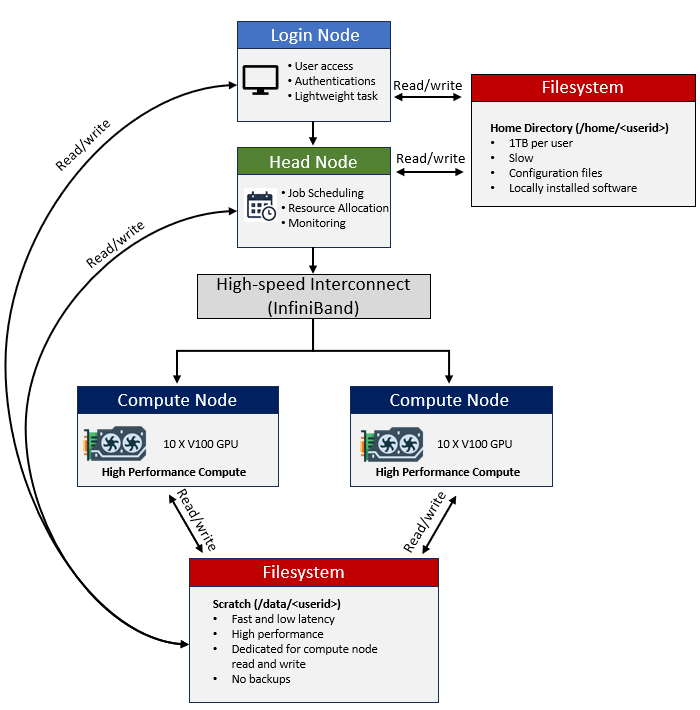
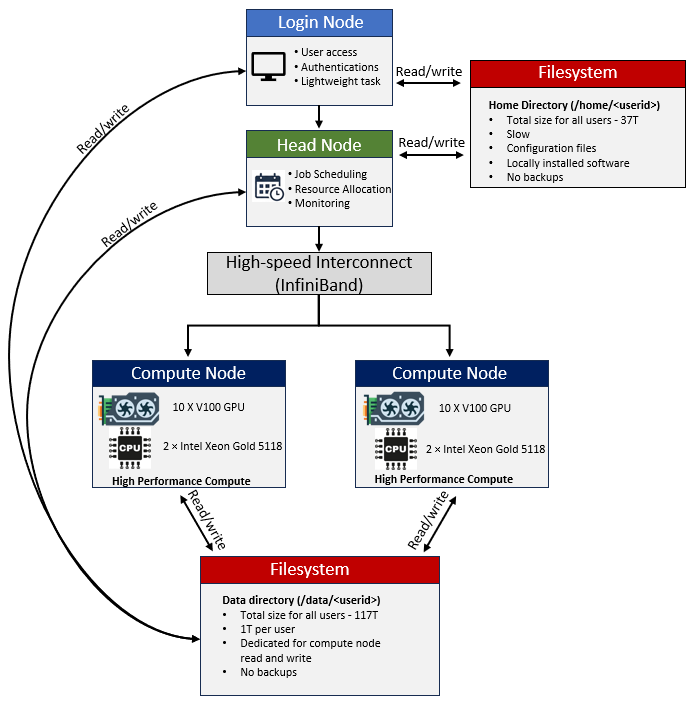
nc

diff --git a/docs/4_Modules_packages.md b/docs/4_Modules_packages.md
@@ -2,7 +2,7 @@
 
 ## Pre-installed software
 
-There are a few softwares that are pre-installed on the IBME cluster that are available to the users. The GPU software stack in the modules are:
+Several software/module packages are pre-installed on the IBME cluster and are available to users. The GPU module stack available on the IBME cluster is listed below:
 
 | **Name**                                         | **Version** | **Description** |
 |:---------------------------------------------------|:-------------| :-------------|
@@ -10,14 +10,14 @@ There are a few softwares that are pre-installed on the IBME cluster that are av
 |cuDNN |  `6.0.20`,    `7.0.1`,    `7.5.0`| CUDA Deep Neural Network Library |
 |NCCL | `1.3.5`,    `2.1.2`,    `2.3.7`,    `2.4.2`| NVIDIA Collective Communications Library. |
 
-The rest of the modules are for infrastructure/support that help the cluster environment work. One in the headnode1, the `module` tools can be used to view or interact with the modules. For exaample:
+The remaining software provide infrastructure and support services that help maintain the cluster environment. Once logged in to `headnode1`, the `module` command can be used to view and interact with the available modules. For exaample:
 
-- The `module avail` or `module spider` command shows the available module in the system
-- The `module load <module_name-version>` loads a module. (Note: replace the module_name and version to load a specific module)
-- The `module unload <module_name-version>` unloads a module.
-- The `module list` command shows the loaded module
+- The `module avail` or `module spider` command shows the available modules in the system.
+- The `module load <module_name-version>` command loads a module. (Note: replace `<module_name-version>` with the specific module and version you want to load.)
+- The `module unload <module_name-version>` command unloads a module.
+- The `module list` command shows the currently loaded modules.
 
-Once the module is loaded it is automatically added to the PATH variable, which can be checked with the `echo $PATH` commans.
+Once a module is loaded, it is automatically added to the PATH environment variable. This can be verified using the `echo $PATH` command.
 
 !!! terminal "code"
     ```bash
@@ -28,44 +28,44 @@ Once the module is loaded it is automatically added to the PATH variable, which 
 
 ## The Mamba or Conda package manager
 
-As the available packages are limited, there may be situations where additional software needs to be installed. The Mamba package manager is one way to install additional software. Mamba is a faster successor to Conda and can be used interchangeably with Conda in most commands. Mamba is an open-source alternative to Conda, implemented in C++ to provide improved performance and faster dependency resolution.
+As the number of pre-installed packages is limited, there may be situations where additional software needs to be installed. One way to install additional software is through the Mamba package manager. Mamba is a faster, open-source alternative to Conda, implemented in C++ to provide improved performance and faster dependency resolution. In most cases, Mamba can be used interchangeably with Conda using the same commands.
 
-With Mamba different version of the same software can be installed in the HPC (or other machines) which are organised in virtual environments. The software can be installed locally on HPC without needing the permission of the IBME HPC admin. 
+Mamba allows different versions of the same software to be installed on the HPC system (or other machines) within isolated virtual environments. Software can be installed locally on the HPC without requiring permission from the IBME HPC administrators.. 
 
 ## Installing Mamba on the IBME cluster
 
-Before using Mamba on the IBME cluster it must be installed (Mamba is already preinstalled on the BMRC cluster). Follow the steps below to install Mamba on the IBME cluster. 
+Before using Mamba on the IBME cluster, it must be installed (Mamba is already preinstalled on the BMRC cluster). Follow the steps below to install Mamba on the IBME cluster:
 
 - Login to the IBME cluster - `ssh <userid>@engs-ibmecluster01.eng.ox.ac.uk`
 
 - In the login node make a shell variable `dir="/users/<userid>/miniforge3"`
 
 
-- Download the installer using `wget`. Information about the installer is available on the official GitHub [**page**](https://github.com/conda-forge/miniforge/)
+- Download the installer using `wget`. Information about the installer is available on the official GitHub [**page**](https://github.com/conda-forge/miniforge/) repository.
 
- !!! terminal "code"
+!!! terminal "code"
     ```bash
     $ wget "https://github.com/conda-forge/miniforge/releases/latest/download/Miniforge3-$(uname)-$(uname -m).sh"
     ```
-    Once the installer has been downloaded, it will be available in the current directory as `Miniforge3-Linux-x86_64.sh`
+    Once the installer has been downloaded, it will be saved in the current directory as `Miniforge3-Linux-x86_64.sh`
 
-- Run the installer and save the installed packages in the `miniforge3` directory
+- Run the installer to install the packages into the `miniforge3` directory.
 
- !!! terminal "code"
+!!! terminal "code"
     ```bash
     $ bash Miniforge3-$(uname)-$(uname -m).sh -b -p $dir
     ```
 
-- Modify the shell configuration for Mamba
+- Configure the shell environment for Mamba
 
 !!! terminal "code"
     ```bash
     $ dir/bin/mamba shell init --shell bash
     ```
 
-- Restart the terminal by logining out and in of the IBME cluster. 
+- Log out of the IBME cluster and log back in to restart the terminal session.
 
-- Run the following commands to installs software repository (which are called channels) for Mamba
+- Run the following commands to add software repositories (known as channels) to Mamba.
 
 !!! terminal "code"
     ```bash
@@ -74,7 +74,7 @@ Before using Mamba on the IBME cluster it must be installed (Mamba is already pr
     $ conda config --add channels conda-forge
     $ conda config --set channel_priority strict
     ```
-- Check the repositories are installed 
+- Verify that the repositories have been installed.
 
 !!! terminal "code"
     ```bash
@@ -92,7 +92,7 @@ Before using Mamba on the IBME cluster it must be installed (Mamba is already pr
 
 ## Installing software on the IBME cluster
 
-To install software on the IBME cluster using Mamba a software environment (e.g. ImageAnalysis) must be created and activated. This can be created using command:
+To install software on the IBME cluster using Mamba, first create and activate a software environment (for example, ImageAnalysis) using the following command:
 
 !!! terminal "code"
     Create environment
@@ -105,16 +105,18 @@ To install software on the IBME cluster using Mamba a software environment (e.g.
     ```bash
     $ mamba activate ImageAnalysis
     ```
-Once activated the environment name will appear in bracket - (ImageAnalysis). Look for the software to install from the repository, for example the [conda-forge](https://conda-forge.org/packages/?) repository. In the example below `CUDA` software will be installed from conda-forge [repository](https://anaconda.org/channels/conda-forge/packages/cuda/overview) in the software environment:
+
+
+Once activated, the environment name will appear in parentheses (e.g. (ImageAnalysis)). Next, identify the software to install from a repository, such as the [conda-forge](https://conda-forge.org/packages/?) channel. In the example below, CUDA is installed from the conda-forge [repository](https://anaconda.org/channels/conda-forge/packages/cuda/overview) into the active software environment.
 
 !!! terminal "code"
     ```bash
     $ mamba install conda-forge::cuda
     ```
 
-We will not specify a specific version for the installation, as a result, Mamba will install the latest available package this is compatible on the IBME cluster system, which in this case was *CUDA 12.6.3*. This is not the latest version of CUDA but is a lot newer that the latest installed in the IBME cluster. 
+We will not specify a fixed version during installation. As a result, Mamba will install the latest available package that is compatible with the IBME cluster environment. In this case, that was `CUDA 12.6.3`. While this is not the most recent CUDA release available, it is significantly newer than the default CUDA version installed on the IBME cluster.
 
-The command above also installs many other CUDA related software packages, which are not available in latest version available in the IBME cluster. For example the `nvcc` and `gcc` compiler. 
+The command above also installs a number of additional CUDA-related packages that are not available in the latest versions provided on the IBME cluster. These include key development tools such as the `nvcc`  and the `gcc` compiler.
 
 The mamba environment can be deactivated using command:
 
@@ -125,7 +127,7 @@ The mamba environment can be deactivated using command:
 
 
 !!! info
-    Installing software using Mamba also installes a large number of dependencies. Creating many software environments and installing softwares withing them can quickly fill up the the user's home directory. Therefore it is advisable to archive the software environment when its not needed. The software environments are located in `/users/<userid>/miniforge3/envs`.
+    Installing software with Mamba also installs a large number of dependencies. Creating multiple environments and installing software within them can quickly consume space in the user’s home directory. It is therefore recommended to archive or remove environments that are no longer in use. Mamba environments are typically located in /users/<userid>/miniforge3/envs.
 
 
 

diff --git a/docs/1_Cluster_introduction.md b/docs/1_Cluster_introduction.md
@@ -1,7 +1,64 @@
 # 1. IBME Cluster introduction
 
+## Accessing the cluster
+
+The IBME cluster is dedicated to IBME users only. Access to the cluster can be requested by raising a ticket with the IBME Hub at **ibmehub@eng.ox.ac.uk**. Approval usually takes up to 10 working days. Once approved, the user is provided with a username and a temporary password, which must be changed on first login.
+
+
+## Cluster layout
+
+The IBME cluster consists of several components connected together in a network and works as a unified system.
 
 
 <p align="center">
     <img src="../images/IBME Cluster.png" width="720">
 </p>
+
+## Key Components
+
+The core components of the cluster include:
+
+ - **Lonin None:** The login node is a computer where users land when they first log in to the IBME cluster. The login node for the IBME cluster runs Rocky Linux (based on Red Hat Enterprise Linux). Logging in to the IBME cluster can be accomplished using the command `ssh <userid>@engs-ibmecluster01.eng.ox.ac.uk` from an IBME office computer on the wired office network, or after remotely connecting to your IBME office computer. To connect to the cluster remotely via VPN, the command `ssh -L 7719:localhost:22 -J <userid>@ibme-ssh-gateway.eng.ox.ac.uk <userid>@engs-ibmecluster01.eng.ox.ac.uk` can be used.
+
+    After a successful login, the terminal prompt changes to `[<userid>@lnode01 ~]$`, and the user is placed in their home directory at `/users/<userid>`. The login nodes can be used for tasks such as viewing and editing files, building software environments, navigating the file system, and transferring or downloading files. However, login nodes should not be used for compute-intensive tasks. The user’s home directory is typically limited in storage capacity; therefore, data intended for computation should instead be stored in `/data/<userid>`.
+
+
+!!! info
+    The `<userid>` must be replaced with the user name.
+
+    For the **first-time login**, the user will be prompted for two passwords. The first password is the user’s Engineering Department (Eng domain) password used at the IBME. The second password is the temporary cluster password provided in the approval email from the IBME Hub. During the initial login, the cluster authentication system will require the temporary password to be changed. After the password has been updated, the terminal session may disconnect automatically. If this happens, simply reconnect using the SSH command shown above and log in again. This time, use the newly updated cluster password as the second password.
+
+    For all subsequent logins, the user will be required to enter only their second password (the one updated by the user) for authentication.
+
+
+
+- **Head None:** To submit jobs to the compute nodes, the user must first log in to the head node. The command to log in to the head node is `ssh headnode01`. Once logged in, the terminal prompt changes to `[<userid>@headnode1 ~]`.
+
+    The head node in the IBME cluster runs CentOS Linux (based on Red Hat Enterprise Linux) and hosts the SLURM scheduler, which users can use to submit jobs to the compute nodes. Instructions on how to use SLURM in the IBME cluster are provided in the [Batch and interactive sessions section](http://127.0.0.1:8000/IBME_Cluster/5_Sessions/).
+
+    Pre-installed software on the IBME cluster is available from the head node. See the [Module and packages](http://127.0.0.1:8000/IBME_Cluster/4_Modules_packages/) section for instructions on how to access or install software.
+
+    The file system on the login node is the same as that of the head node. As a result, files and data stored in `/users/<userid>` and `/data/<userid>` on the login node are also accessible from headnode1.
+
+
+!!! info
+    During the **first-time login**, the user will be prompted to enter the temporary password provided in the approval email from IBME Hub. The authentication system will then require the temporary password to be changed. Choose a secure password to complete the setup. For all subsequent logins, only the new password set by the user will be required for authentication.
+
+
+- **Compute Node:** Compute nodes are the machines responsible for executing jobs on the cluster. Users do not have direct access to the compute nodes (for example, commands such as `ssh computenode` are not permitted). Jobs can only be submitted from the head node (headnode1) using SLURM, as described above.
+
+    The IBME cluster consists of two identical compute nodes. Each node is equipped with **10 x [Tesla V100](https://www.nvidia.com/en-gb/data-center/tesla-v100/) 32GB GPU** and **2 x Intel Xeon Gold 5118 (12 core) 2.30GHz CPU**. Each CPU supports two threads per core, resulting in **24 physical CPU cores and 48 logical CPUs per node**. In addition, each node has **190 GB** of system RAM (separate from GPU memory).
+
+    The table below summarises the compute infrastructure available on each node
+
+
+<div style="display: flex; justify-content: center;" markdown="1">
+
+
+| **Type**                                         | **Configuration** | 
+|:---------------------------------------------------|:-------------|
+|GPU| 20 x Tesla V100 32GB|
+|CPU| 4 x Intel Xeon Gold 5118 (12 core)|
+|RAM| 190 GB (per-node)|
+
+</div>
